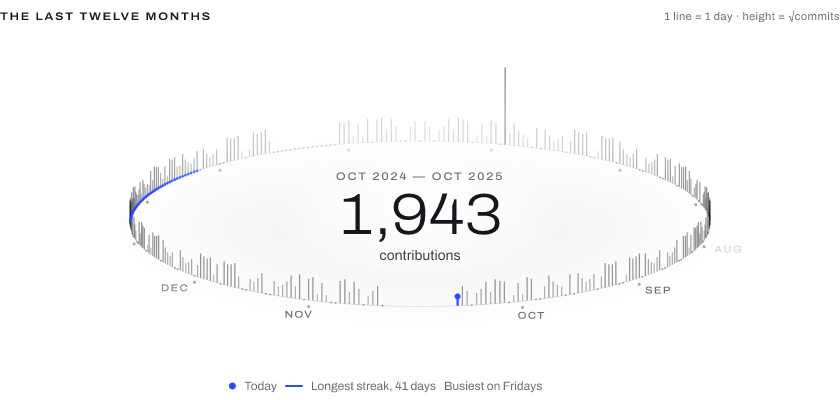
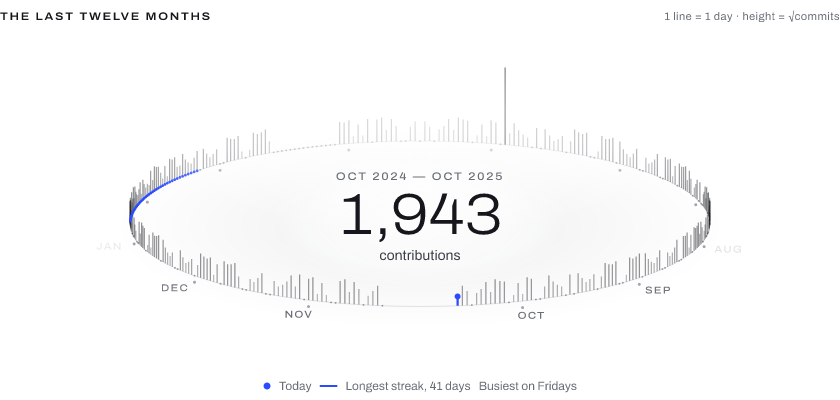
RM-155 correct the ink check notes and pin the readme images to their goldens

Changed region(s): [[0.2786, 0.93, 0.681, 0.99]]

diff --git a/packages/golden/test/comparePng.test.ts b/packages/golden/test/comparePng.test.ts
@@ -75,6 +75,21 @@ describe("comparePng", () => {
     expect(result.reason).toContain("ink");
   });
 
+  test("a faint light alpha-only mark on a transparent image fails on the black flattening", () => {
+    const golden = solidPng(16, 16, [0, 0, 0, 0]);
+    const marked = block(golden, 1, 3, [255, 255, 255, 20]);
+    const result = comparePng(golden, marked, { ...defaultNodeTolerance, maxDiffRatio: 1 });
+    expect(result.pass).toBe(false);
+    expect(result.reason).toContain("ink");
+  });
+
+  test("an ink failure names the tile also when pixels differ", () => {
+    const golden = solidPng(16, 16, white);
+    const result = comparePng(golden, block(golden, 1, 3, black), defaultNodeTolerance);
+    expect(result.reason).toContain("ink of the 16x16 tile at 0,0");
+    expect(result.reason).toContain("pixels differ");
+  });
+
   test("maxTileInk 1 turns the ink check off", () => {
     const golden = solidPng(16, 16, white);
     const faint = block(golden, 1, 3, [235, 235, 235, 255]);

diff --git a/packages/golden/src/node/tileInkShift.ts b/packages/golden/src/node/tileInkShift.ts
@@ -10,7 +10,8 @@ export interface TileInk {
 
 // Anti-aliasing moves coverage between neighbouring pixels but keeps the tile's summed luma, so
 // the signed sum per tile sees a lost faint mark that a per-pixel colour threshold cannot.
-// Alpha-only changes show on the black flattening, colour-only ones on the white one.
+// Both flattenings are summed because an alpha-only change shows on one of them: a dark mark on
+// the white one, a light mark on the black one.
 export function tileInkShift(expected: PNG, actual: PNG, tile = inkTile): TileInk {
   const { width, height } = expected;
   const tilesX = Math.ceil(width / tile);

diff --git a/packages/golden/src/node/comparePng.ts b/packages/golden/src/node/comparePng.ts
@@ -55,8 +55,9 @@ export function comparePng(
     inkShift: ink.shift,
     diffPng: PNG.sync.write(diff),
   };
-  if (ratioOk && !inkOk) {
-    comparison.reason = `ink of the 16x16 tile at ${String(ink.x)},${String(ink.y)} changed by ${percent(ink.shift)} % (limit ${percent(tolerance.maxTileInk)} %)`;
+  if (!inkOk) {
+    const pixels = ratioOk ? "" : `; ${String(diffPixels)} of ${String(totalPixels)} pixels differ`;
+    comparison.reason = `ink of the 16x16 tile at ${String(ink.x)},${String(ink.y)} changed by ${percent(ink.shift)} % (limit ${percent(tolerance.maxTileInk)} %)${pixels}`;
   }
   return comparison;
 }

diff --git a/packages/components/test/readmeImages.test.ts b/packages/components/test/readmeImages.test.ts
@@ -1,0 +1,13 @@
+import { readFileSync } from "node:fs";
+import { expect, test } from "vitest";
+
+const read = (path: string) => readFileSync(new URL(path, import.meta.url));
+
+test.each(["light", "dark"])(
+  "the README Year Ring %s image is its golden byte for byte",
+  (theme) => {
+    const golden = read(`./golden/profiles-year-ring/year-${theme}.png`);
+    const image = read(`../../../assets/readme/year-ring-${theme}.png`);
+    expect(image.equals(golden)).toBe(true);
+  },
+);

diff --git a/docs/golden-tests.md b/docs/golden-tests.md
@@ -85,8 +85,8 @@ The golden rasterizer stays resvg-js 2.6.2 (native, tests only). Raster export (
 `@resvg/resvg-wasm` 2.6.2, the same resvg core, and its suite (`packages/raster/test/raster.golden.test.ts`) checks
 that: every frame of every PNG, WebP, APNG and GIF it writes is decoded and compared with `rasterizeSvg` of the
 renderer's SVG at that frame's time, within `defaultNodeTolerance` (GIF: its 1-bit alpha applied to the reference,
-threshold 0.15, 1 % of the pixels, ink check off: the 1-bit alpha moves edge ink). The decoded frames, stacked into one image per fixture and format, are the
-committed goldens in `packages/raster/test/golden/raster/` (`pnpm golden:update raster`). WebP images in a design
+threshold 0.15, 1 % of the pixels, ink check off: the 1-bit alpha moves edge ink). The decoded frames,
+stacked into one image per fixture and format, are the committed goldens in `packages/raster/test/golden/raster/` (`pnpm golden:update raster`). WebP images in a design
 are compared with the same design holding the PNG twin, since resvg-js cannot draw them.
 
 ## Animated designs
@@ -123,9 +123,10 @@ pixelmatch counts a pixel only when its colour moves by about 26 luma levels or 
 small mark can vanish without one differing pixel: the 10 px month label JAN of the Year Ring year, drawn at opacity
 0.13, changes at most 20 levels per pixel and gave 0 differing pixels with `includeAA` on or off. The Node ink check
 closes that gap. Anti-aliasing moves coverage between neighbouring pixels but keeps the tile's total, so the signed sum
-per tile is stable across platforms (0 on Linux against Windows goldens) and the dropped JAN changes its tile by 0.95 %,
+per tile is stable across platforms (a sub-pixel shift across a tile edge does move ink between tiles, and the check then
+sees it) (0 on Linux against Windows goldens) and the dropped JAN changes its tile by 0.95 %,
 nine times the limit. A failure names the tile and the change (`ink of the 16x16 tile at 240,96 changed by 0.95 %
-(limit 0.10 %)`). A mark of opacity down to about 0.014 is caught.
+(limit 0.10 %)`). For a label the size of JAN (10 px text) opacity down to about 0.014 is caught; a smaller mark needs more.
 
 Not caught: a mark moved within its tile, an equal-ink colour change below the pixel threshold, and in the browser leg
 any faint loss (Chromium and resvg differ by about 2 % ink per tile, so the check is off there). The SVG golden stays
@@ -175,7 +176,7 @@ docker run --rm -e CI=true -v "$PWD:/src:ro" mcr.microsoft.com/playwright:v1.64.
 ## Portability of goldens
 
 Goldens are rendered by resvg with system fonts turned off, so they do not depend on the machine's fonts, and
-anti-aliased pixels are ignored by the comparison. They were generated on Windows and the whole suite also passes on Linux (`mcr.microsoft.com/playwright:v1.64.0-noble`, same lockfile); the tile ink of the Year Ring year rendered on Linux against the Windows golden is 0. Chromium
+the pixel comparison ignores anti-aliased pixels (the Node ink check does not ignore them: a sub-pixel shift across a tile edge moves ink between tiles, which measured 0 here). They were generated on Windows and the whole suite also passes on Linux (`mcr.microsoft.com/playwright:v1.64.0-noble`, same lockfile); the tile ink of the Year Ring year rendered on Linux against the Windows golden is 0. Chromium
 rasterization differs slightly between platforms (gradient dithering, AA), which the browser tolerance absorbs.
 
 ## README images
